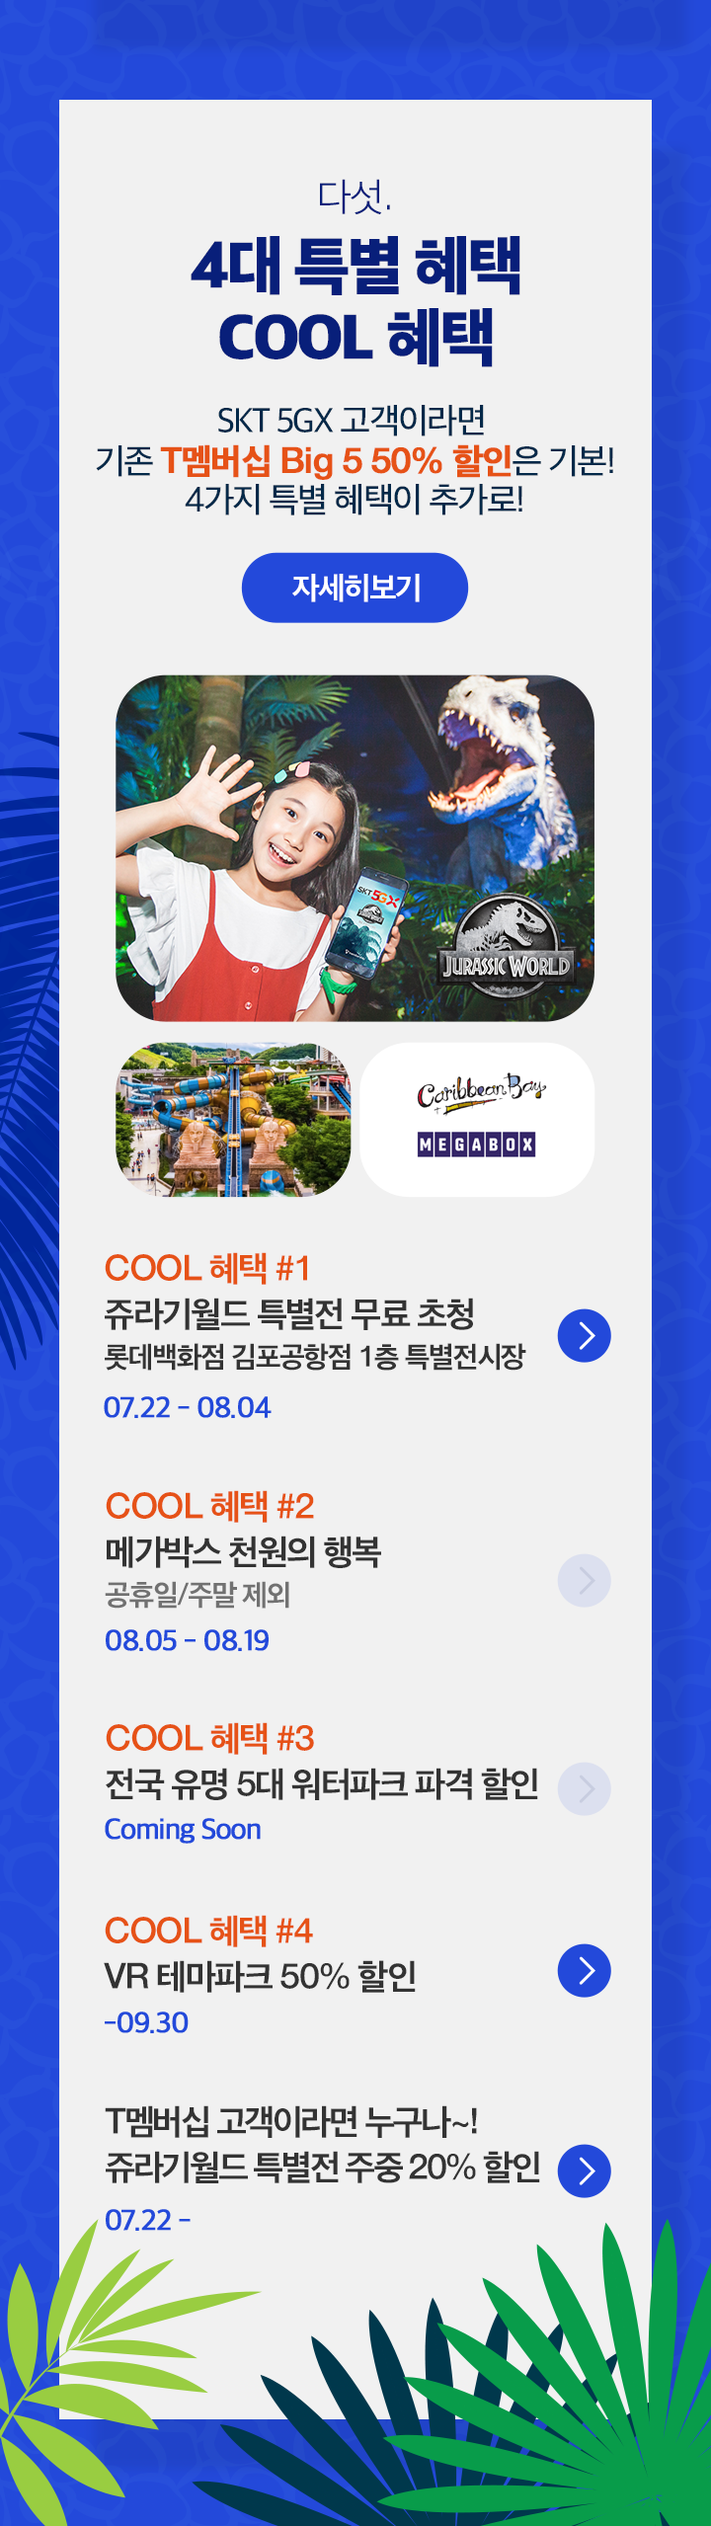
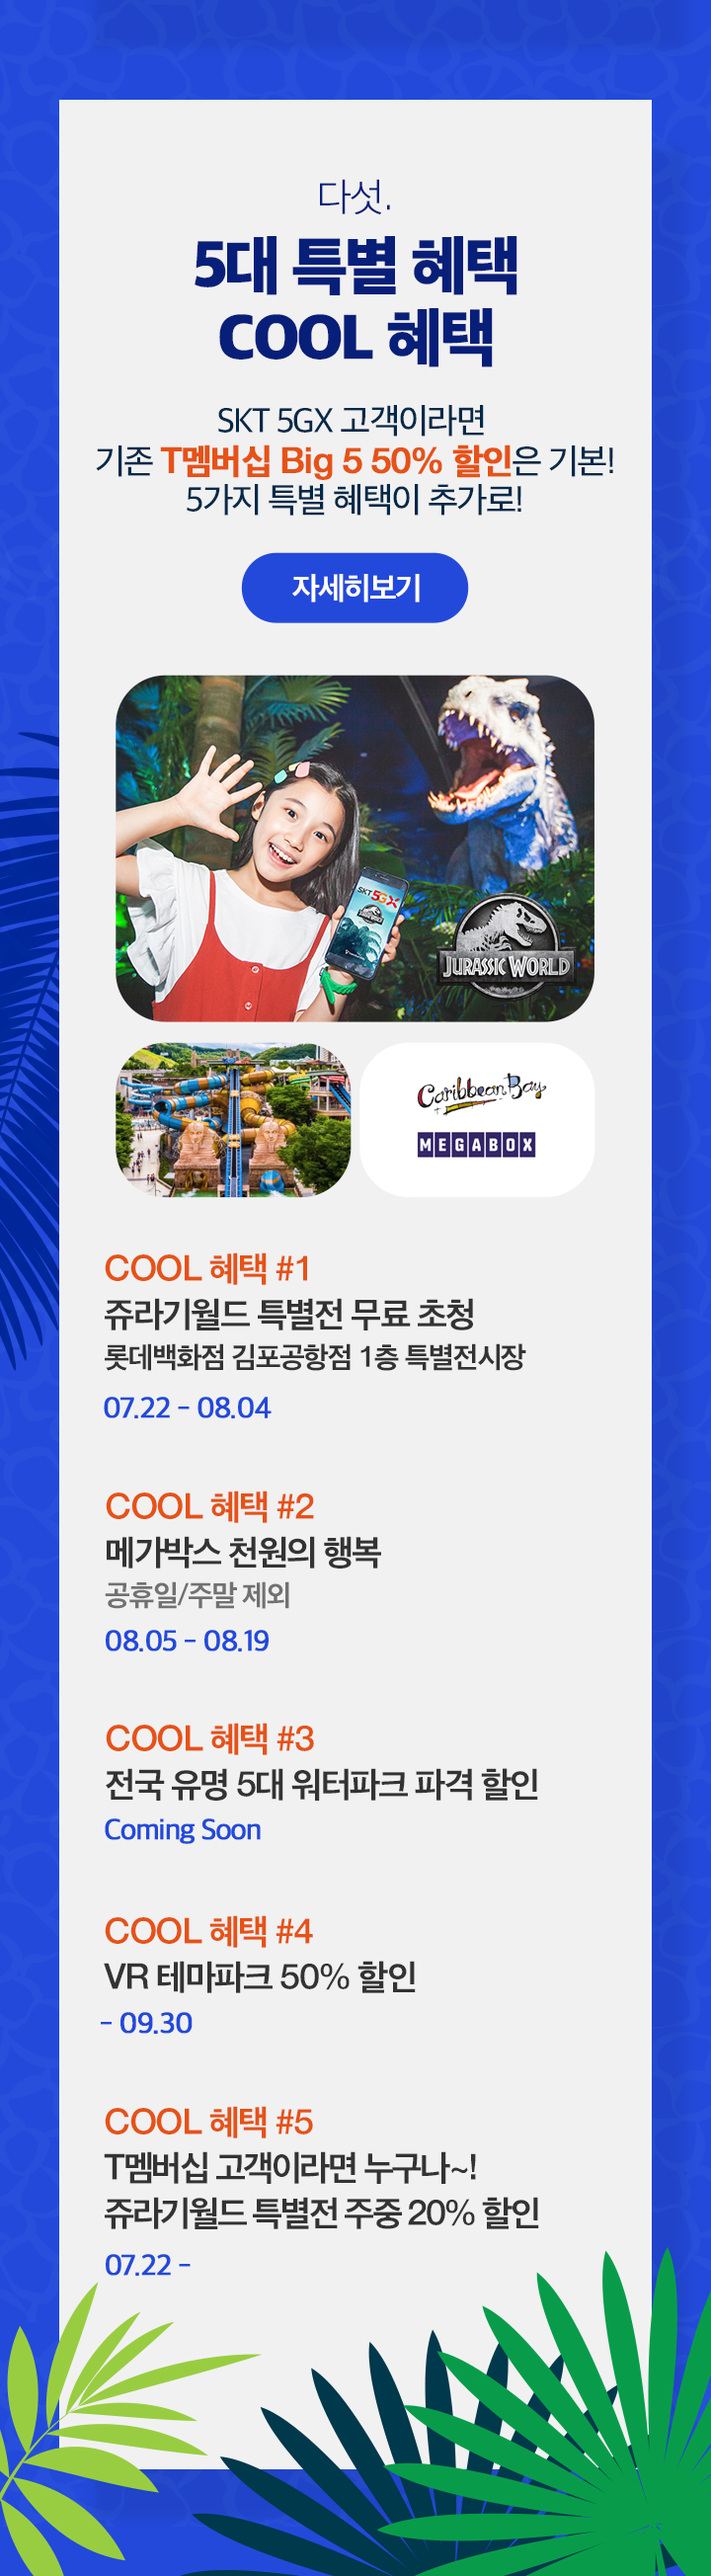
Web Contents Merge

diff --git a/src/client/web-contents/css/layout.css b/src/client/web-contents/css/layout.css
@@ -4893,7 +4893,6 @@ body.og-5mktp-intro>.wrap, body.og-5mktp-intro .container-wrap {margin:0; paddin
 .dwg-popup.color-type-b{background-color:#3584e3;}
 .dwg-popup.color-type-c{background-color:#57637f;}
 .dwg-popup.color-type-d{background-color:#198d5b;}
-.dwg-popup.color-type-e{background-color:#632dc6;}/* 190723 [OP002-2117] 추가 */
 
 .dwg-hd-area{ position: relative; min-height:14.75rem; padding-bottom: 1.09rem;}
 .dwg-hd-area .h2-tit{position: absolute; top: 0; left: 0; padding: 4.125rem 1.25rem 0; color: #fff; letter-spacing: -0.06875rem}
@@ -4968,12 +4967,6 @@ body.og-5mktp-intro>.wrap, body.og-5mktp-intro .container-wrap {margin:0; paddin
 .tod-eventDetail .blind {width:1px; height:1px; margin:-1px; clip:rect(0,0,0,0);}
 /* //190516 [#OP002-372] [이벤트] Mobile_내가고른패키지 내용 수정 / 190529 [OP002-732][UX/PUB] (W-1905-135-00) 5GX 브롤스타즈 체험존 혜택 */
 
-/* 190715 [OP002-2399] - 프로모션 해지방어 추가  */
-/* 삭제 
-.dwg-dialog-btns .row{width:100%; height: 3.5rem;}
-.dwg-dialog-btns .dwg-blue-link{display:inline-block;margin-right:1.5rem;color:#358ed8;font-size:0.813rem;line-height:1;padding: 1.25rem 0;text-decoration:underline;}
-*/
-
 /* 190718 추가 [OP002-2498] 5GX마케팅 페이지 내 5GX부스트파크 신규 페이지 추가 */
 .og-5mktp-intro-headwrap.tod-bgwhite{background:#fff; height:auto;}
 .og-5mktp-intro-headwrap.tod-bgwhite .txt-r{color:#dd120e}
@@ -4985,7 +4978,6 @@ body.og-5mktp-intro>.wrap, body.og-5mktp-intro .container-wrap {margin:0; paddin
 .tod-og-newLink-list li{width:calc((100% - 0.625rem)/2); float:left; }
 .tod-og-newLink-list li img{width:100%; height:auto; vertical-align:top}
 .tod-og-newLink-list li a{display:block}
-
 
 /* 190723 추가 - 외부업무 지원  START */
 /* 슬라이드 스타일 indecator reset */
@@ -5106,7 +5098,7 @@ body.og-5mktp-intro>.wrap, body.og-5mktp-intro .container-wrap {margin:0; paddin
 }
 .og-boostpark-underline:after{
   display: block;
-  width:100%; 
+  width:100%;
   height:8px;
   margin-top:-8px;
   content: "";
@@ -5254,7 +5246,7 @@ body.og-5mktp-intro>.wrap, body.og-5mktp-intro .container-wrap {margin:0; paddin
   background-repeat: no-repeat;
   position: relative;
   margin-top:16px;
-  
+
 }
 .og-boostpark-ad i{
   position: absolute;
@@ -5267,8 +5259,8 @@ body.og-5mktp-intro>.wrap, body.og-5mktp-intro .container-wrap {margin:0; paddin
   border-bottom-left-radius: 5px;
 }
 .og-boostpark-ad p{
-  display:table-cell; 
-  vertical-align:middle; 
+  display:table-cell;
+  vertical-align:middle;
   position: relative;
   text-align: center;
   font-weight: 300;
@@ -5340,28 +5332,3 @@ body.og-5mktp-intro>.wrap, body.og-5mktp-intro .container-wrap {margin:0; paddin
   font-size:19px;
 }
 /* 190723 추가 - 외부업무 지원 END */
-
-/* 190724 [OP002-2204] - 로밍직가입유도 랜당상세페이지, 팝업  */
-.popup .popup-info.nobg .bt-slice {background:#fff; height:3.125rem; margin-top:-0.038rem;}
-.popup .popup-info.nobg .bt-slice li.pos-left{float:left; width:auto; height: 3.125rem; padding-left:1.31rem;}
-.popup .popup-info.nobg .bt-slice li.pos-right{float: right; width:auto; height:3.125rem; padding-right:1.31rem; margin-top:0; text-align:right;}
-.popup .popup-info.nobg .bt-slice li.pos-left button{color:#000; font-size:0.875rem; font-weight:700;} 
-.popup .popup-info.nobg .bt-slice li.pos-right button{color:#3b98e6; font-size:0.875rem; font-weight:700;}
-.baro-banner .section-swiper-box .slick-prev,
-.baro-banner .section-swiper-box .slick-next{display:block !important;}
-.baro-banner .slick-prev{position:absolute; top:52%; left:2.5rem; z-index:1; width:1.25rem; height:1.875rem; background: url(/img/product/baro-slide-prev.png) no-repeat center; background-size:18px 30px;-webkit-transform:translateY(-50%);transform: translateY(-50%); color: transparent;}
-.baro-banner .slick-next{position:absolute; top:52%; right:2.5rem; z-index:1; width:1.25rem; height:1.875rem; background: url(/img/product/baro-slide-next.png) no-repeat center; background-size:18px 30px;-webkit-transform:translateY(-50%); transform: translateY(-50%);color: transparent;}
-.baro-banner .main-charge-box.benefit{background:#fff;}
-.baro-banner .slider-box .slick-dots{position:relative;text-align:center;}
-.baro-banner .benefit .slider-box .slick-dots{position:relative; width:4.063rem; bottom:-0.185rem; top:unset !important; margin:0 auto; right:0.625rem; }
-.baro-banner .slider-box .slick-dots li span, 
-.baro-banner .main-charge-box .slider-box .slick-dots li button{width:0.5rem !important; height:0.5rem !important; background:#ccc; border:none;}
-.baro-banner .slider-box .slick-dots li {float:left; width:0.5rem !important; height:0.5rem !important; margin:0 4px !important; color:#ccc; border:none;}
-.baro-banner .section-swiper-box .slider-box .slick-dots li.slick-active {width:1.563rem !important; height:0.5rem !important; margin-top:0;}
-.baro-banner .slider-box .slick-dots li.slick-active span,
-.baro-banner .main-charge-box .slider-box .slick-dots li.slick-active button{background:#4765ff; width:1.563rem !important; border-radius:5px; border:none;}
-.baro-banner .tod-bann-auto .tod-bann-btn {position:relative; left: -0.375px;width: auto !important;line-height: 0;vertical-align: top;}
-.baro-banner .tod-bann-auto .tod-bann-btn.stop:before {background-image: url(/img/product/tod_ban_stop.png);}
-.baro-banner .tod-bann-auto .tod-bann-btn:before {content: ''; display:inline-block; width:0.875rem !important; height:0.875rem !important; border-radius:50%; text-align:center; background:rgba(00,00,00,0.3) url(/img/product/tod_ban_play.png) no-repeat 50% 50%; background-size: 100%;}
-/* 190724 [OP002-2204] - 로밍직가입유도 랜당상세페이지, 팝업 END*/
-

diff --git a/src/client/web-contents/html/sprint/mTL1.1.44.html b/src/client/web-contents/html/sprint/mTL1.1.44.html
@@ -94,13 +94,13 @@
 
         <div class="imagemap">
             <img src="/img/event/img_event_mTL1.1.44_6.png" alt="">
-            <div class="evtBtnBox" style="position:absolute; top:21.8%; left:33.6%; width:32.5%; height:2.9%;"><a href="http://bit.ly/2JGowmw" target="_blank"><span class="blind">쿨혜택 자세히보기</span></a></div>
-            <div class="evtBtnBox" style="position:absolute; top:49.5%; left:8.3%; right:8.3%; height:7%; z-index:1;"><a href="http://bit.ly/2Yacrzl" target="_blank"><span class="blind">쿨혜택1 자세히보기</span></a></div>
-            <!-- <div class="evtBtnBox" style="position:absolute; top:54.3%; left:8.3%; right:8.3%; height:6%; z-index:1;"><a href="http://bit.ly/32xSEJK" target="_blank"><span class="blind">쿨혜택2 자세히보기</span></a></div>
+            <div class="evtBtnBox" style="position:absolute; top:21.4%; left:33.6%; width:32.5%; height:2.9%;"><a href="http://bit.ly/2LNAkXC" target="_blank"><span class="blind">쿨혜택 자세히보기</span></a></div>
+            <!-- <div class="evtBtnBox" style="position:absolute; top:49.5%; left:8.3%; right:8.3%; height:7%; z-index:1;"><a href="http://bit.ly/2Yacrzl" target="_blank"><span class="blind">쿨혜택1 자세히보기</span></a></div>
+            <div class="evtBtnBox" style="position:absolute; top:54.3%; left:8.3%; right:8.3%; height:6%; z-index:1;"><a href="http://bit.ly/32xSEJK" target="_blank"><span class="blind">쿨혜택2 자세히보기</span></a></div>
             <div class="evtBtnBox" style="position:absolute; top:62.8%; left:8.3%; right:8.3%; height:6%; z-index:1;"><a href="" target="_blank"><span class="blind">쿨혜택3 자세히보기</span></a></div>
-            <div class="evtBtnBox" style="position:absolute; top:71.3%; left:8.3%; right:8.3%; height:5%; z-index:1;"><a href="" target="_blank"><span class="blind">쿨혜택4 자세히보기</span></a></div> -->
+            <div class="evtBtnBox" style="position:absolute; top:71.3%; left:8.3%; right:8.3%; height:5%; z-index:1;"><a href="" target="_blank"><span class="blind">쿨혜택4 자세히보기</span></a></div> 
             <div class="evtBtnBox" style="position:absolute; top:75.7%; left:8.3%; right:8.3%; height:5%; z-index:1;"><a href="http://bit.ly/32xSEJK" target="_blank"><span class="blind">쿨혜택4 자세히보기</span></a></div>
-            <div class="evtBtnBox" style="position:absolute; top:83%; left:8.3%; right:8.3%; height:5.5%; z-index:1;"><a href="http://m.11st.co.kr/MW/Gate/executeApp.tmall?goStore=Y&goUrl=http%3A//ticket.11st.co.kr/Product/Detail/262660" target="_blank"><span class="blind">전 고객 혜택 자세히보기</span></a></div>
+            <div class="evtBtnBox" style="position:absolute; top:83%; left:8.3%; right:8.3%; height:5.5%; z-index:1;"><a href="http://m.11st.co.kr/MW/Gate/executeApp.tmall?goStore=Y&goUrl=http%3A//ticket.11st.co.kr/Product/Detail/262660" target="_blank"><span class="blind">전 고객 혜택 자세히보기</span></a></div>-->
             <div class="blind">
                 <h3>5대 특별 혜택 Cool 혜택</h3>
                 <ul>

diff --git a/src/client/web-contents/css/components.css b/src/client/web-contents/css/components.css
@@ -35477,13 +35477,6 @@ body.apphome .section-box {
 .user-info.tod-user-info .ico{background-image:url('/img/ico/ico-con-user-new.png') ; top:50%; margin-top:-1rem}
 .user-info.tod-user-info .in-info2{min-height:auto}
 
-/* 190726 [OP002-2539] T High5 적금 부가서비스 UI 개선 */
-.data-list-type1 .type1.tod-high5 li {display:table; width:100%;}
-.data-list-type1 .type1.tod-high5 li .stit,
-.data-list-type1 .type1.tod-high5 li .use {display:table-cell;}
-.data-list-type1 .type1.tod-high5 li .stit {padding-right:0;}
-.data-list-type1 .type1.tod-high5 li .use {position:static; text-align:right;}
-
 /* 190726 추가 [OP002-2866] main banner 자동재생관련 - components 에도 추가 */
 .section-box.nogaps.tod-no-mg{margin:0.63rem 0 0 0;}
 .main-charge-box.section-swiper-box.tod-nar-ban{min-height:8.75rem;}

diff --git a/src/client/web-contents/css/common.css b/src/client/web-contents/css/common.css
@@ -9579,8 +9579,3 @@ button:focus span {
 /* 190715 추가 [OP002-2474] T world x SK pay 적용 */
 .tod-clearboth{clear:both;}
 .tod-floatnone{float:none !important}
-
-/* 190723 [OP002-2580] 동호 입력 */
-.address-wrap.inputbox.tod-type1 .input{width:auto}
-.address-wrap.inputbox.tod-type1 .dongho.first{width:9.54%}
-.address-wrap.inputbox.tod-type1 .dongho{width:6.06%;padding-left:0.43rem;vertical-align:middle}
